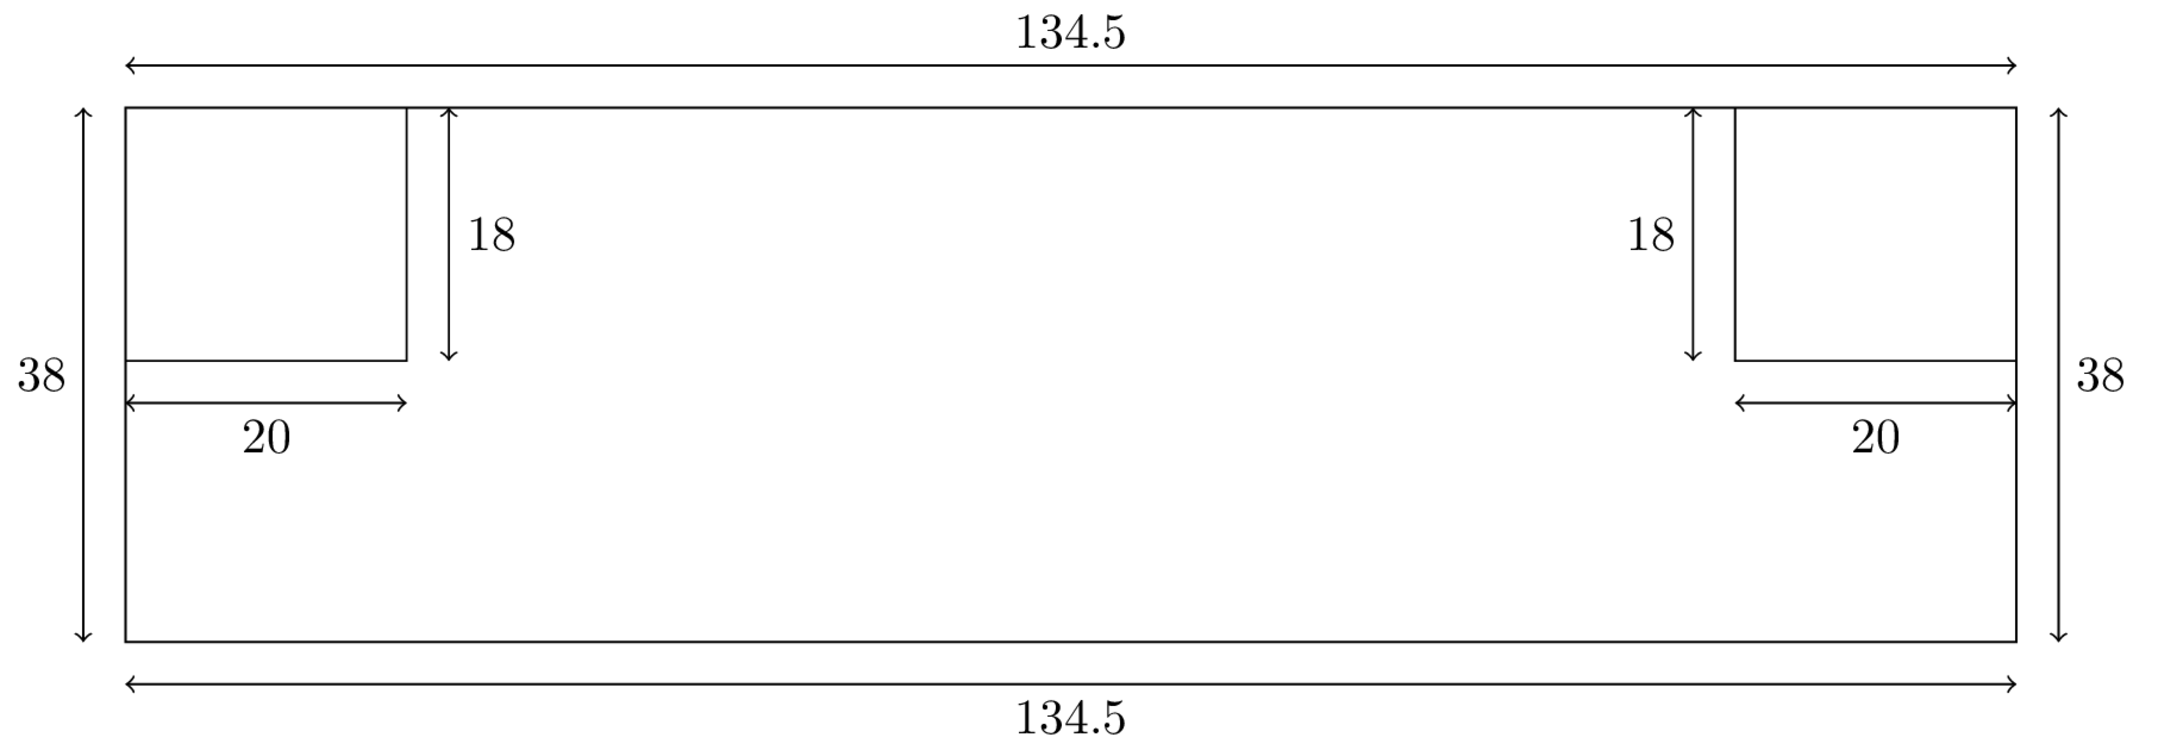
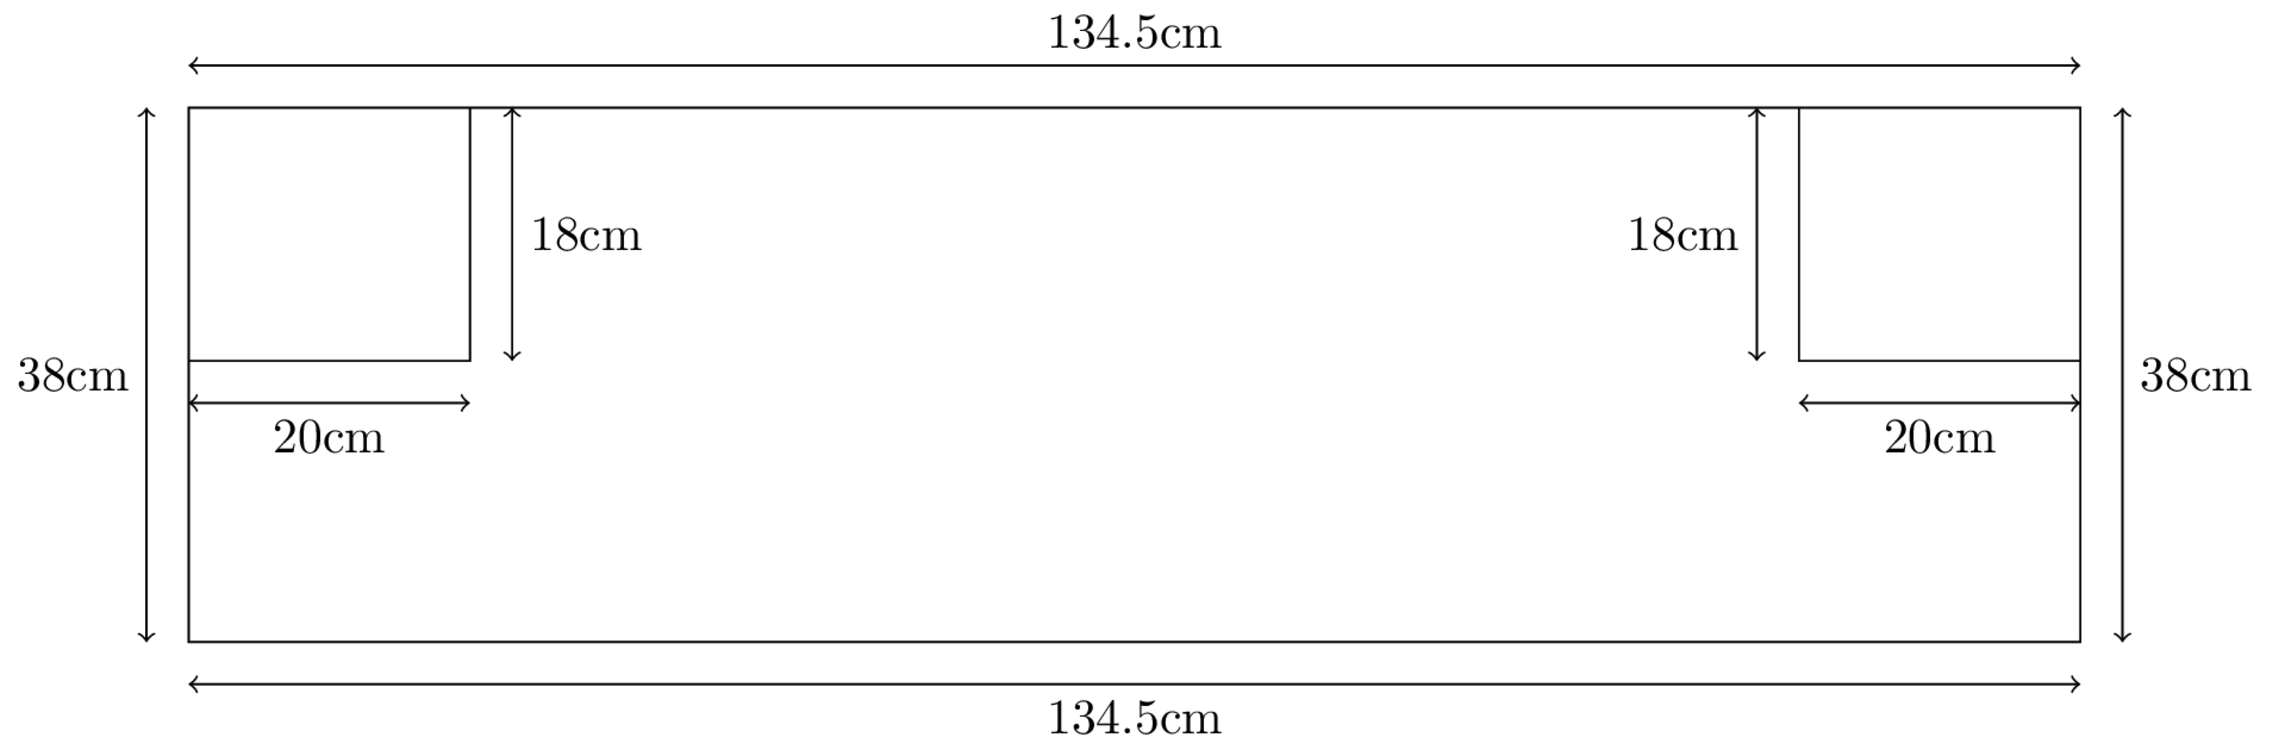
Schematic W1 readme

diff --git a/Pages/Exports/W1.sc.tex b/Pages/Exports/W1.sc.tex
@@ -1,5 +1,6 @@
 \documentclass{standalone}
 \usepackage{tikz}
+\usepackage{siunitx}
 \usetikzlibrary{calc,patterns,arrows,shapes.arrows,intersections}
 
 \begin{document}
